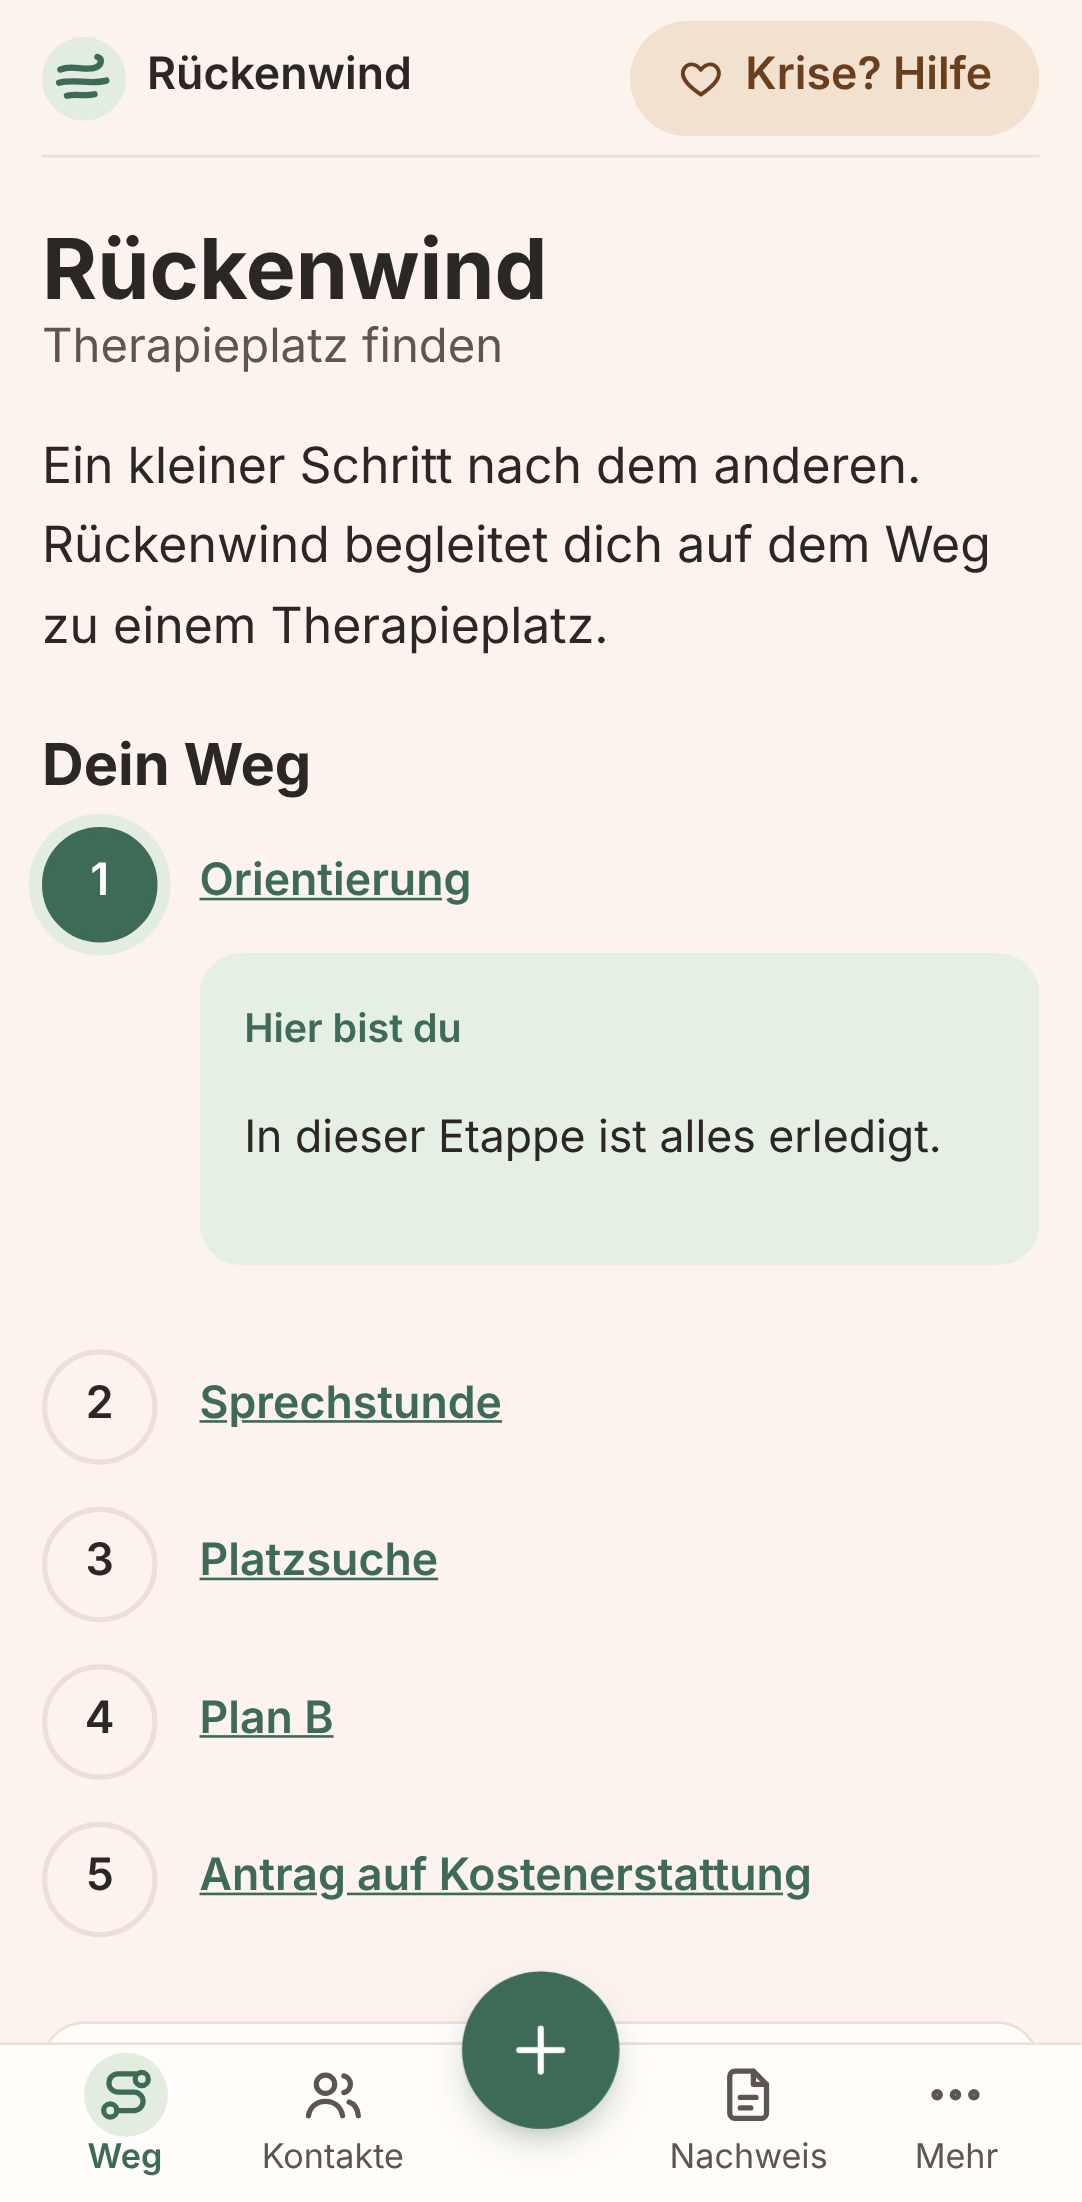
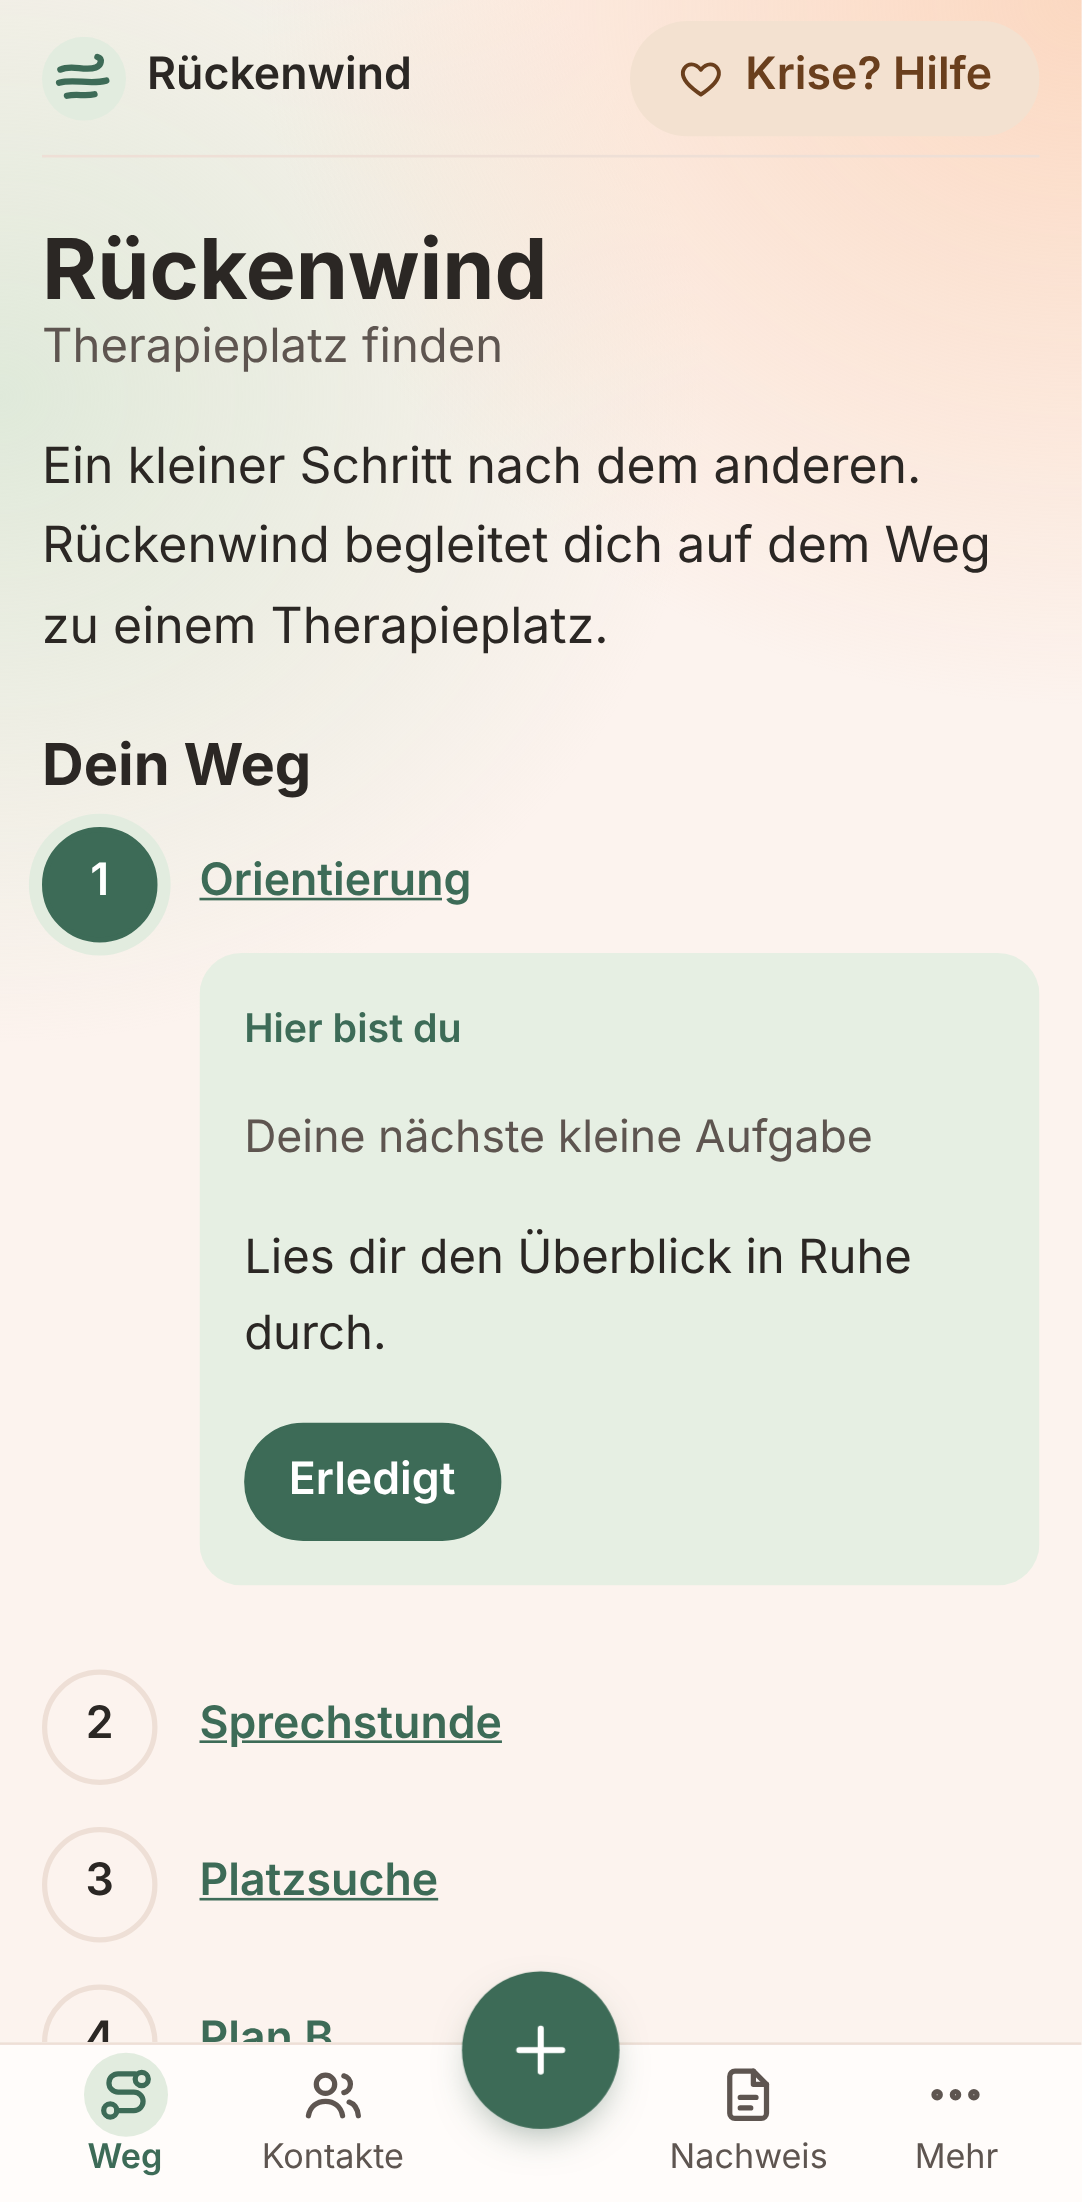
feat(design): weicher Farbschimmer im Hintergrund wie in Variante B
Zwei sanfte Farbverläufe hinter der Seite, passend zu jedem Thema
(Salbei: Pfirsich und Salbei). Mit 75 % Stärke behalten Text und Links
auch in der Mitte des Schimmers 4,5:1 Kontrast.

Claude-Session: https://claude.ai/code/session_01HMBzxnGyoSdrjDkRBGYD8q

diff --git a/src/app/globals.css b/src/app/globals.css
@@ -21,6 +21,9 @@
 	--color-crisis-text: #6a3f1d;
 	--shadow-card: none;
 	--shadow-float: 0 6px 16px -6px rgb(47 87 69 / 0.55);
+	/* Soft colour glow behind the page, as in the Pfirsich mockup */
+	--glow-1: #fbcfb2;
+	--glow-2: #d6e6d3;
 
 	--font-sans:
 		system-ui, -apple-system, 'Segoe UI', Roboto, 'Helvetica Neue', Arial, 'Noto Sans', sans-serif;
@@ -50,6 +53,8 @@
 	--shadow-card: 0 8px 22px -14px rgb(122 61 93 / 0.45);
 	--shadow-float: 0 6px 16px -6px rgb(138 74 107 / 0.6);
 	--radius: 1.25rem;
+	--glow-1: #fcc9a6;
+	--glow-2: #efc6de;
 }
 
 :root[data-palette='himmel'] {
@@ -69,6 +74,8 @@
 	--shadow-float: 0 6px 16px -6px rgb(74 88 173 / 0.6);
 	--font-sans: 'Nunito Variable', system-ui, -apple-system, 'Segoe UI', Roboto, sans-serif;
 	--radius: 1.5rem;
+	--glow-1: #d6dafb;
+	--glow-2: #cdeee0;
 }
 
 @media (prefers-color-scheme: dark) {
@@ -87,6 +94,8 @@
 		--color-crisis-text: #f1cba6;
 		--shadow-card: none;
 		--shadow-float: 0 6px 16px -6px rgb(0 0 0 / 0.7);
+		--glow-1: #4d3022;
+		--glow-2: #21382b;
 	}
 
 	:root[data-palette='pfirsich'] {
@@ -102,6 +111,8 @@
 		--color-highlight: #33232b;
 		--color-crisis-bg: #352a44;
 		--color-crisis-text: #e1cbf1;
+		--glow-1: #5a3423;
+		--glow-2: #4d2a42;
 		--shadow-card: none;
 	}
 
@@ -118,6 +129,8 @@
 		--color-highlight: #212842;
 		--color-crisis-bg: #3f2a25;
 		--color-crisis-text: #f6cbb8;
+		--glow-1: #3a2f63;
+		--glow-2: #1d3d38;
 		--shadow-card: none;
 	}
 }
@@ -139,6 +152,27 @@ body {
 	font-family: var(--font-sans);
 	font-size: 1.0625rem;
 	line-height: 1.6;
+}
+
+/* Two soft colour glows behind everything, fixed to the screen. Purely decorative.
+ * At 75 % strength muted text and links keep 4.5:1 contrast even at the glow centre. */
+body::before {
+	content: '';
+	position: fixed;
+	inset: 0;
+	z-index: -1;
+	background:
+		radial-gradient(
+			28rem 24rem at 100% 0%,
+			color-mix(in srgb, var(--glow-1) 75%, transparent),
+			transparent 70%
+		),
+		radial-gradient(
+			24rem 22rem at 0% 18%,
+			color-mix(in srgb, var(--glow-2) 75%, transparent),
+			transparent 70%
+		);
+	pointer-events: none;
 }
 
 a {
